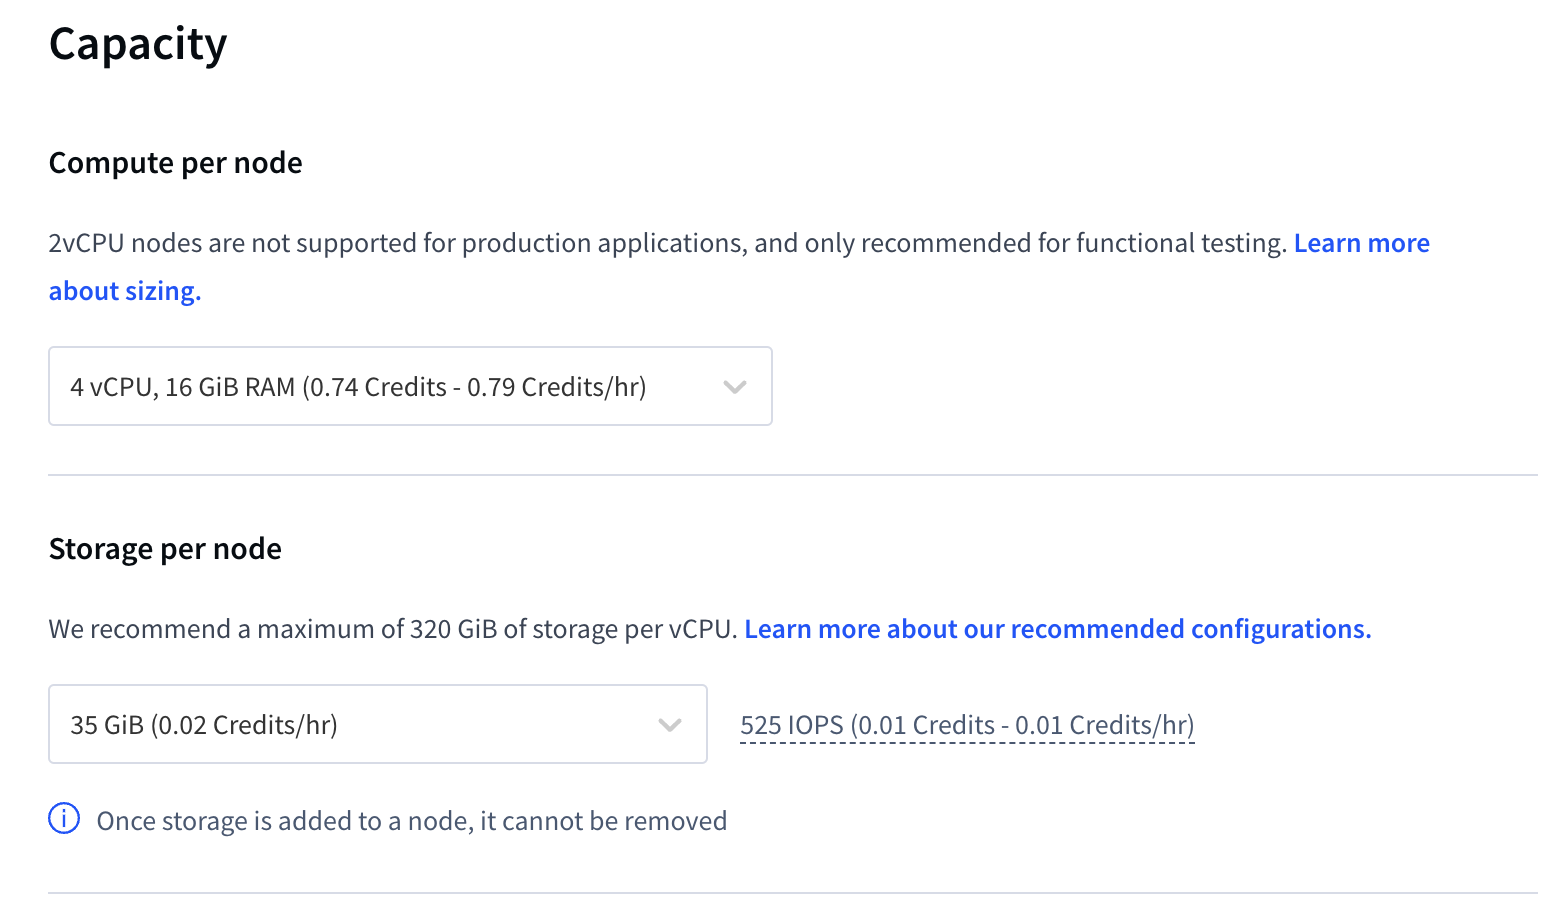
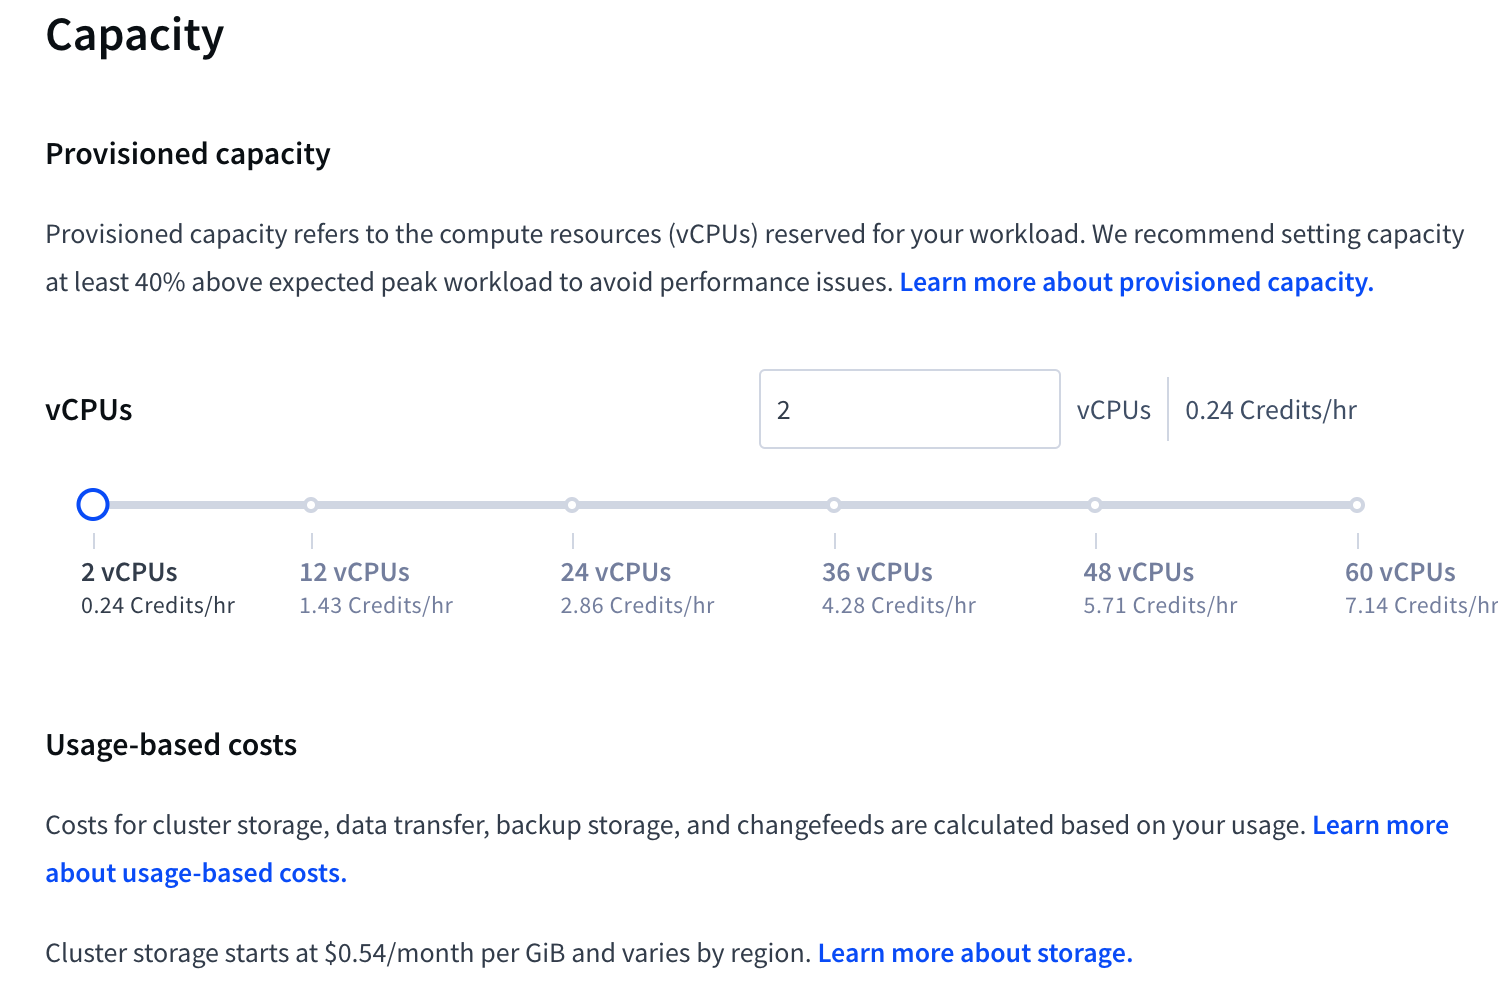
update README instructions using CockroachDB Cloud Standarda

diff --git a/README.md b/README.md
@@ -25,7 +25,7 @@ Transform a user database into a global system by implementing data locality tha
 ### 1. Initial Setup
 1. Create a Github repository named "CockroachDB-<em>First and Last Initial</em>."
     - e.g. Joe Smith's Github Repo is "CockroachDB-JS"
-2. Create a [CockroachDB Cloud](https://cockroachlabs.cloud/) **Advanced** account
+2. Create a [CockroachDB Cloud](https://cockroachlabs.cloud/) account
    - Trial includes $400 in credits
 
 ### 2. Useful Documentation
@@ -40,42 +40,34 @@ Transform a user database into a global system by implementing data locality tha
 ## Setup
 
 ### 1. Cluster Configuration
-Set up a [CockroachDB Cloud](https://cockroachlabs.cloud/) **Advanced** account with the following specifications. It takes ~30 minutes to provision the cluster:
+Set up a [CockroachDB Cloud](https://cockroachlabs.cloud/) **Standard** cluster. It takes ~5 minutes to provision the cluster:
 
 <kbd>
-    <img src="screenshots/CockroachDB_Advanced.png" width="400" height="600" alt="CockroachDB Advanced">
+    <img src="screenshots/CockroachDB_Standard.png" width="300" height="500" alt="CockroachDB Standard">
 </kbd>
 
 #### Cloud Provider:
 AWS
 
 #### Multiple Regions
-- Paris, France
-- Tokyo, Japan
-- North Virginia, USA
+- North Virginia, USA (Set Primary Region)
+- Singapore
+- Ireland
 
 <kbd>
     <img src="screenshots/Cloud_Regions.png" width="600" alt="Cloud & Regions">
 </kbd>
 
 #### Hardware Specifications
-- Compute per node: 4 vCPU & 16 GB RAM
-- Storage per node: 35 GiB
+- Provisioned Capacity: 2 vCPU
 
 <kbd>
     <img src="screenshots/Capacity.png" width="600" alt="Capacity">
 </kbd>
 
-#### Security
-- Select "Do not include additional security features"
-
-<kbd>
-    <img src="screenshots/Security.png" width="600" alt="Security">
-</kbd>
-
 #### Accessing
 1. **Cluster Provisioning**:
-Wait 30 minutes for the cluster to provision
+Wait 5 minutes for the cluster to provision
 
 2. **SQL User Setup**:
    - Go to CockroachDB Console → SQL Users
@@ -87,13 +79,12 @@ Wait 30 minutes for the cluster to provision
 
 <br>
 
-3. **Network Configuration**:
-   - Go to CockroachDB Console → Networking
-   - Create a network name and add your current network
-   - Enable access for DB Console and CockroachDB Client
+3. **Connection Configuration**:
+   - If you use the SQL Shell (recommended) to execute SQL commands, then you can close this page
+   - If you connect to the database outside of SQL Shell, download CA Cert
 
 <kbd>
-    <img src="screenshots/Add_Network.png" width="500" alt="Add Network">
+    <img src="screenshots/Connection_Configuration.png" width="500" alt="Connection Configuration">
 </kbd>
 
 <br>
@@ -124,6 +115,7 @@ CREATE TABLE global_users (
     name STRING NOT NULL,
     email STRING UNIQUE NOT NULL,
     city STRING NOT NULL,
+    country STRING NOT NULL,
     created_at TIMESTAMP DEFAULT current_timestamp(),
     CONSTRAINT email_valid CHECK (email ~* '^[A-Za-z0-9._%+-]+@[A-Za-z0-9.-]+\.[A-Za-z]{2,}$')
 );
@@ -133,6 +125,7 @@ CREATE TABLE regional_users (
     name STRING NOT NULL,
     email STRING UNIQUE NOT NULL,
     city STRING NOT NULL,
+    country STRING NOT NULL,
     created_at TIMESTAMP DEFAULT current_timestamp(),
     CONSTRAINT email_valid CHECK (email ~* '^[A-Za-z0-9._%+-]+@[A-Za-z0-9.-]+\.[A-Za-z]{2,}$')
 );
@@ -142,65 +135,67 @@ CREATE TABLE regional_by_row_users (
     name STRING NOT NULL,
     email STRING UNIQUE NOT NULL,
     city STRING NOT NULL,
+    country STRING NOT NULL,
     created_at TIMESTAMP DEFAULT current_timestamp(),
     CONSTRAINT email_valid CHECK (email ~* '^[A-Za-z0-9._%+-]+@[A-Za-z0-9.-]+\.[A-Za-z]{2,}$')
 );
 ```
 
 4. Insert sample data:
+
 ```sql
-INSERT INTO global_users (name, email, city) VALUES
-    ('Michael Cohen', 'michael.cohen@gmail.com', 'Richmond'),
-    ('Sarah Rodriguez', 'sarah.r@outlook.com', 'Richmond'),
-    ('David Chang', 'david.chang@yahoo.com', 'Richmond'),
-    ('Rachel Goldman', 'rachel.goldman@gmail.com', 'Richmond'),
-    ('Anthony DiMarco', 'tony.dimarco@outlook.com', 'Richmond'),
-    ('Marie Dubois', 'marie.dubois@orange.fr', 'Paris'),
-    ('Jean-Pierre Moreau', 'jp.moreau@gmail.com', 'Paris'),
-    ('Amélie Laurent', 'amelie.laurent@free.fr', 'Paris'),
-    ('François Bernard', 'f.bernard@laposte.net', 'Paris'),
-    ('Sophie Lefebvre', 'sophie.lefebvre@orange.fr', 'Paris'),
-    ('Yuki Tanaka', 'tanaka.yuki@softbank.ne.jp', 'Tokyo'),
-    ('Hiroshi Sato', 'sato.hiroshi@docomo.ne.jp', 'Tokyo'),
-    ('Akiko Yamamoto', 'yamamoto.akiko@yahoo.co.jp', 'Tokyo'),
-    ('Kenji Nakamura', 'nakamura.k@gmail.com', 'Tokyo'),
-    ('Sakura Suzuki', 'suzuki.sakura@softbank.ne.jp', 'Tokyo');
+INSERT INTO global_users (name, email, city, country) VALUES
+    ('Michael Cohen', 'michael.cohen@gmail.com', 'Richmond', 'USA'),
+    ('Sarah Rodriguez', 'sarah.r@outlook.com', 'Richmond', 'USA'),
+    ('David Chang', 'david.chang@yahoo.com', 'Richmond', 'USA'),
+    ('Rachel Goldman', 'rachel.goldman@gmail.com', 'Richmond', 'USA'),
+    ('Anthony DiMarco', 'tony.dimarco@outlook.com', 'Richmond', 'USA'),
+    ('Michael Connor', 'siobhan.oconnor@gmail.com', 'Dublin', 'Ireland'),
+    ('Conor Murphy', 'conor.murphy@eircom.net', 'Dublin', 'Ireland'),
+    ('Aoife Kelly', 'aoife.kelly@live.ie', 'Dublin', 'Ireland'),
+    ('Liam Byrne', 'l.byrne@gmail.com', 'Dublin', 'Ireland'),
+    ('Niamh Brennan', 'niamh.brennan@outlook.com', 'Dublin', 'Ireland'),
+    ('Wei Lim', 'wei.lim@singtel.com', 'Singapore', 'Republic of Singapore'),
+    ('Jun Tan', 'jun.tan@starhub.sg', 'Singapore', 'Republic of Singapore'),
+    ('Mei Lin Chen', 'meichen@gmail.com', 'Singapore', 'Republic of Singapore'),
+    ('Raj Kumar', 'raj.kumar@singnet.com', 'Singapore', 'Republic of Singapore'),
+    ('Li Ying Wong', 'liying.wong@singtel.com', 'Singapore', 'Republic of Singapore');
 
 
-INSERT INTO regional_users (name, email, city) VALUES
-    ('Daniel Shapiro', 'dan.shapiro@gmail.com', 'Richmond'),
-    ('Emily Santos', 'emily.santos@outlook.com', 'Richmond'),
-    ('Michael Patel', 'mpatel@yahoo.com', 'Richmond'),
-    ('Rebecca Liu', 'rebecca.liu@gmail.com', 'Richmond'),
-    ('Christopher Burke', 'chris.burke@outlook.com', 'Richmond'),
-    ('Sofia Rossi', 'sofia.rossi@gmail.com', 'Richmond'),
-    ('James McDonnell', 'james.odonnell@yahoo.com', 'Richmond'),
-    ('Amanda Chen', 'amanda.chen@gmail.com', 'Richmond'),
-    ('Andrew Kim', 'akim@outlook.com', 'Richmond'),
-    ('Lauren McCarthy', 'lauren.mc@gmail.com', 'Richmond'),
-    ('David Cohen', 'dcohen@yahoo.com', 'Richmond'),
-    ('Victoria Nguyen', 'victoria.n@gmail.com', 'Richmond'),
-    ('Ryan Martinez', 'ryan.martinez@outlook.com', 'Richmond'),
-    ('Sarah Goldman', 'sgoldman@gmail.com', 'Richmond'),
-    ('Thomas Park', 'thomas.park@yahoo.com', 'Richmond');
+INSERT INTO regional_users (name, email, city, country) VALUES
+    ('Daniel Shapiro', 'dan.shapiro@gmail.com', 'Richmond', 'USA'),
+    ('Emily Santos', 'emily.santos@outlook.com', 'Richmond', 'USA'),
+    ('Michael Patel', 'mpatel@yahoo.com', 'Richmond', 'USA'),
+    ('Rebecca Liu', 'rebecca.liu@gmail.com', 'Richmond', 'USA'),
+    ('Christopher Burke', 'chris.burke@outlook.com', 'Richmond', 'USA'),
+    ('Sofia Rossi', 'sofia.rossi@gmail.com', 'Richmond', 'USA'),
+    ('James McDonnell', 'james.odonnell@yahoo.com', 'Richmond', 'USA'),
+    ('Amanda Chen', 'amanda.chen@gmail.com', 'Richmond', 'USA'),
+    ('Andrew Kim', 'akim@outlook.com', 'Richmond', 'USA'),
+    ('Lauren McCarthy', 'lauren.mc@gmail.com', 'Richmond', 'USA'),
+    ('David Cohen', 'dcohen@yahoo.com', 'Richmond', 'USA'),
+    ('Victoria Nguyen', 'victoria.n@gmail.com', 'Richmond', 'USA'),
+    ('Ryan Martinez', 'ryan.martinez@outlook.com', 'Richmond', 'USA'),
+    ('Sarah Goldman', 'sgoldman@gmail.com', 'Richmond', 'USA'),
+    ('Thomas Park', 'thomas.park@yahoo.com', 'Richmond', 'USA');
 
 
-INSERT INTO regional_by_row_users (name, email, city) VALUES
-    ('Alexandra Patel', 'alex.patel@gmail.com', 'Richmond'),
-    ('Marcus Washington', 'marcus.w@outlook.com', 'Richmond'),
-    ('Jennifer Kim', 'jennifer.kim@yahoo.com', 'Richmond'),
-    ('Brandon Hughes', 'brandon.oconnor@gmail.com', 'Richmond'),
-    ('Maya Santos', 'maya.santos@outlook.com', 'Richmond'),
-    ('Lucie Garnier', 'l.garnier@free.fr', 'Paris'),
-    ('Nicolas Petit', 'nicolas.petit@orange.fr', 'Paris'),
-    ('Camille Roux', 'camille.roux@laposte.net', 'Paris'),
-    ('Thomas Leroy', 't.leroy@gmail.com', 'Paris'),
-    ('Claire Dupont', 'claire.dupont@orange.fr', 'Paris'),
-    ('Riku Watanabe', 'watanabe.riku@docomo.ne.jp', 'Tokyo'),
-    ('Aoi Ishikawa', 'ishikawa.aoi@softbank.ne.jp', 'Tokyo'),
-    ('Takeshi Kimura', 'kimura.takeshi@yahoo.co.jp', 'Tokyo'),
-    ('Yumi Kobayashi', 'kobayashi.yumi@gmail.com', 'Tokyo'),
-    ('Kaito Matsuda', 'matsuda.kaito@docomo.ne.jp', 'Tokyo');
+INSERT INTO regional_by_row_users (name, email, city, country) VALUES
+    ('Alexandra Patel', 'alex.patel@gmail.com', 'Richmond', 'USA'),
+    ('Marcus Washington', 'marcus.w@outlook.com', 'Richmond', 'USA'),
+    ('Jennifer Kim', 'jennifer.kim@yahoo.com', 'Richmond', 'USA'),
+    ('Brandon Hughes', 'brandon.oconnor@gmail.com', 'Richmond', 'USA'),
+    ('Maya Santos', 'maya.santos@outlook.com', 'Richmond', 'USA'),
+    ('Declan Sullivan', 'declan.osullivan@gmail.com', 'Dublin', 'Ireland'),
+    ('Fiona Fitzgerald', 'fiona.fitz@eircom.net', 'Dublin', 'Ireland'),
+    ('Seamus Doyle', 'seamus.doyle@live.ie', 'Dublin', 'Ireland'),
+    ('Aisling Ryan', 'aisling.ryan@gmail.com', 'Dublin', 'Ireland'),
+    ('Eoin Walsh', 'eoin.walsh@outlook.com', 'Dublin', 'Ireland'),
+    ('Zi Yang Chua', 'ziyang.chua@singtel.com', 'Singapore', 'Republic of Singapore'),
+    ('Priya Sharma', 'priya.sharma@starhub.sg', 'Singapore', 'Republic of Singapore'),
+    ('Jason Lau', 'jason.lau@singnet.com', 'Singapore', 'Republic of Singapore'),
+    ('Grace Ng', 'grace.ng@gmail.com', 'Singapore', 'Republic of Singapore'),
+    ('Cheng Wei Loh', 'chengwei.loh@singtel.com', 'Singapore', 'Republic of Singapore');
 ```
 
 ## The Challenge 💻
